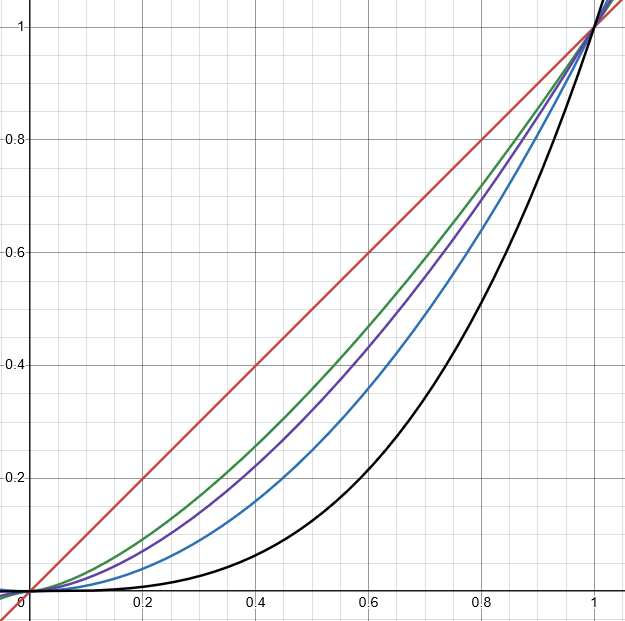
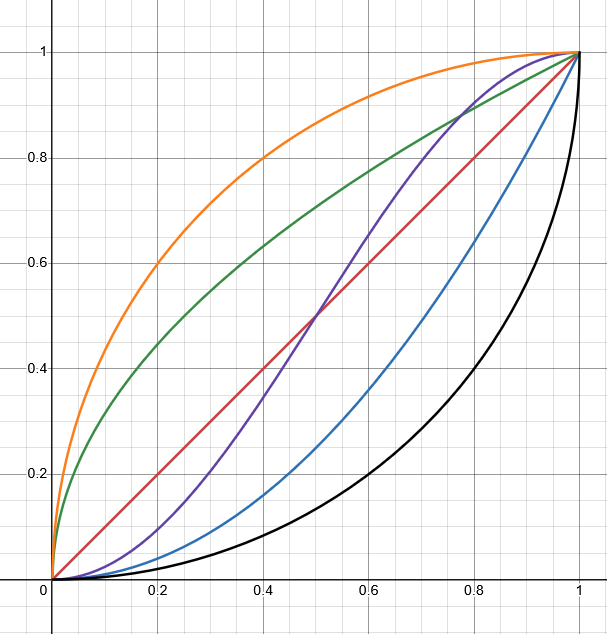
Updates to precision control

Changed region(s): [[0.0, 0.0, 1.0, 1.0], [0.1186, 0.1224, 0.1779, 0.1836]]

diff --git a/pages/source/topics/precision-control/background/background.md b/pages/source/topics/precision-control/background/background.md
@@ -16,7 +16,7 @@ Manipulating joystick inputs effectively can:
 
 ## Deadzones
 
-Every controller is an imperfect device.  Due to hardware imperfections at the microscopic scale, when a joystick returns to the neutral position, the joystick does not usually map to exactly `0.0` input.  So, it is common to have a 'deadzone' (also called a 'deadband'), where any input less than the deadzone is mapped to zero.  Here is some naive pseudocode with a 20% deadzone:
+Every controller is an imperfect device.  Due to hardware imperfections, when a joystick returns to the neutral position, the joystick does not usually map to exactly `0.0` input.  So, it is common to have a 'deadzone' (also called a 'deadband'), where any input less than the deadzone is mapped to zero.  Here is some naive pseudocode with a 20% deadzone:
 
 ```{code-block} java
 :linenos:
@@ -39,7 +39,7 @@ If graphed with the input on the {math}`x` axis and the output on the {math}`y` 
 
 <br>
 
-The area highlighted in yellow is the input where precision control is lost.  This poses an issue; **the user is limited to a minimum input of 20%!** If used for the drivetrain, this will lead to driver overshoot, and in general inhibits the user's ability to make fine precision adjustments that are critical for game-piece acquisition or scoring opportunities.
+The area highlighted in yellow is the input where precision control is lost.  This poses an issue; **the user is limited to a minimum input of 20%!** If used for the drivetrain, this will lead to driver overshoot; for other controls, it inhibits the user's ability to make fine precision adjustments critical for game-piece acquisition or scoring opportunities.
 
 One could object:
 
@@ -58,13 +58,13 @@ What we really want is something more like this:
 
 <br>
 
-That's much better.  The orange line, a linear interpolation of the blue line, is the more natural expectation of deadzone characteristics.  With some range checking, we can apply a deadzone _without_ sacrificing precision.
+That's much better.  The orange line, a linear interpolation of the blue line, is the more intuitive deadzone characteristic.  With some range checking, we can apply a deadzone _without_ sacrificing precision.
 
 <hr>
 
 ## Response Curves
 
-Response curves are functions that will magnify the input in a non-linear fashion.  Response curves also allow one to customize the 'feel' of a joystick.  In general, the most applicable response curves, specifically for drivetrains, are exponential.  This is because they reduce input on the low end, allowing a user to more easily make micro-adjustments, and accelerate the input towards the high end, so that maximum output is not inhibited. Some exponential curves are shown below: 
+Response curves are functions that will transform the input in a non-linear fashion. allowing one to customize the 'feel' of a joystick.  Some example response curves are shown below, with the input on the {math}`x` axis and the output on the {math}`y`: 
 
 <br>
 
@@ -74,22 +74,22 @@ Response curves are functions that will magnify the input in a non-linear fashio
 
 | Curve     |
 |-----------|
-| 🟥 {math}`x^1` |
-| 🟩 {math}`x^{1.48}` |
-| 🟪 {math}`x^{1.64}` |
-| 🟦 {math}`x^2` |    
-| ⬛ {math}`x^3` |    
+| 🟥 {math}`y = x` |
+| 🟦 {math}`y = x^2` |
+| 🟩 {math}`y = \sqrt{x}` |
+| ⬛ {math}`y = 1-\sqrt{1-x^{2}}` |
+| 🟧 {math}`y = \sqrt{1-\left(x\ -1\right)^{2}}` |
+| 🟪 {math}`y = \frac{1\cos\left(\pi\left(x+1\right)\right)}{2}\ +\ \frac{1}{2}` |    
 </td>
     <td>
 
-   <div style="text-align:right">
-
 ![Response Curves](./response-curves.png)
-</div>
 </td>
   </tr>
 </table>
 
 <br>
 
-A response curve in combination with a deadzone is _extremely_ effective.  One can simultaneously ignore hardware imperfections and enhance micro-adjustment capability.
+A response curve in combination with a deadzone can be effective in customizing and normalizing joystick feel.
+
+The most applicable response curves for drivetrains are generally exponential (e.g. {math}`x^n` where {math}`n \geq 1`) because they reduce input on the low end, allowing a user to more easily make micro-adjustments, and accelerate the input towards the high end, so that maximum output is not inhibited.  However, programmers should ponder their own use case; an alternative function may be preferable.

diff --git a/pages/source/topics/precision-control/implementation/implementation.md b/pages/source/topics/precision-control/implementation/implementation.md
@@ -2,6 +2,8 @@
 
 <hr>
 
+## Usage
+
 Battleaid offers `TunedJoystick` to make using deadzones and response curves intuitive with minimal performance overhead.
 
 ```{code-block} java
@@ -28,3 +30,45 @@ tunedJoystick.getRightY();
 tunedJoystick.getLeftX();
 tunedJoystick.getLeftY();
 ```
+
+<hr>
+
+### Notes
+
+#### I.
+
+`TunedJoystick` was created with the intention to be used for drivetrain joysticks, so the only `ResponseCurves` are exponential.  
+
+<table class="table" style="margin-left: auto; margin-right: auto; table-layout: auto;">
+  <tr>
+    <td style="padding-right: 30px;">
+
+| Enum | Curve | 
+|-|-|
+| {code}`ResponseCurve.LINEAR`    | 🟥 {math}`x^1` |
+| {code}`ResponseCurve.VERYSOFT`  | 🟩 {math}`x^{1.48}` |
+| {code}`ResponseCurve.SOFT`      | 🟪 {math}`x^{1.64}` |
+| {code}`ResponseCurve.QUADRATIC` | 🟦 {math}`x^2` |    
+| {code}`ResponseCurve.CUBIC`     | ⬛ {math}`x^3` |
+</td>
+    <td>
+
+![Response Curves](./tuned-joystick-response-curves.png)
+</td>
+  </tr>
+</table>
+
+#### II.
+
+`TunedJoystick` uses a square deadzone instead of a circular deadzone because:
+
+1. A square deadzone is simpler to implement.
+    - Circular deadzone requires checks on the {math}`x` and {math}`y` axis, while a square deadzone does not.
+2. A circular deadzone is more computationally expensive.
+    - The vector magnitude of user input needs to be computed.
+3. Deadzones will generally not be big enough for the difference to be noticed by users.
+    - Area grows exponentially to radius.
+
+| Square | Circular |
+|-|-|
+| ![Square Deadzone](./square-deadzone.png) | ![Circular Deadzone](./circular-deadzone.png) | 
